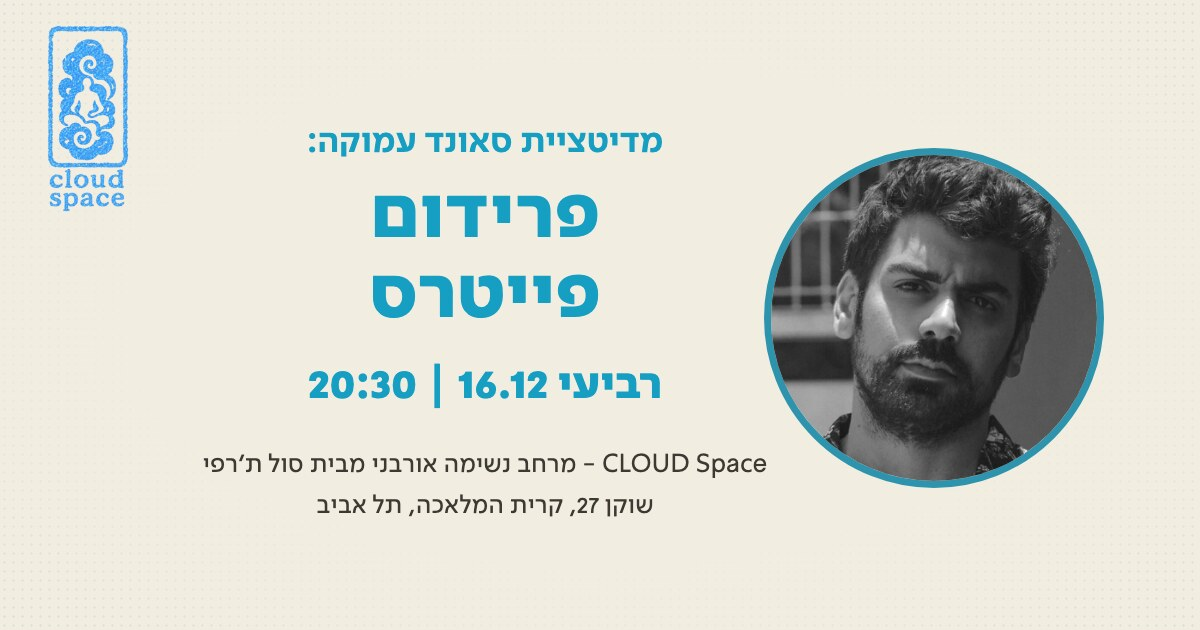
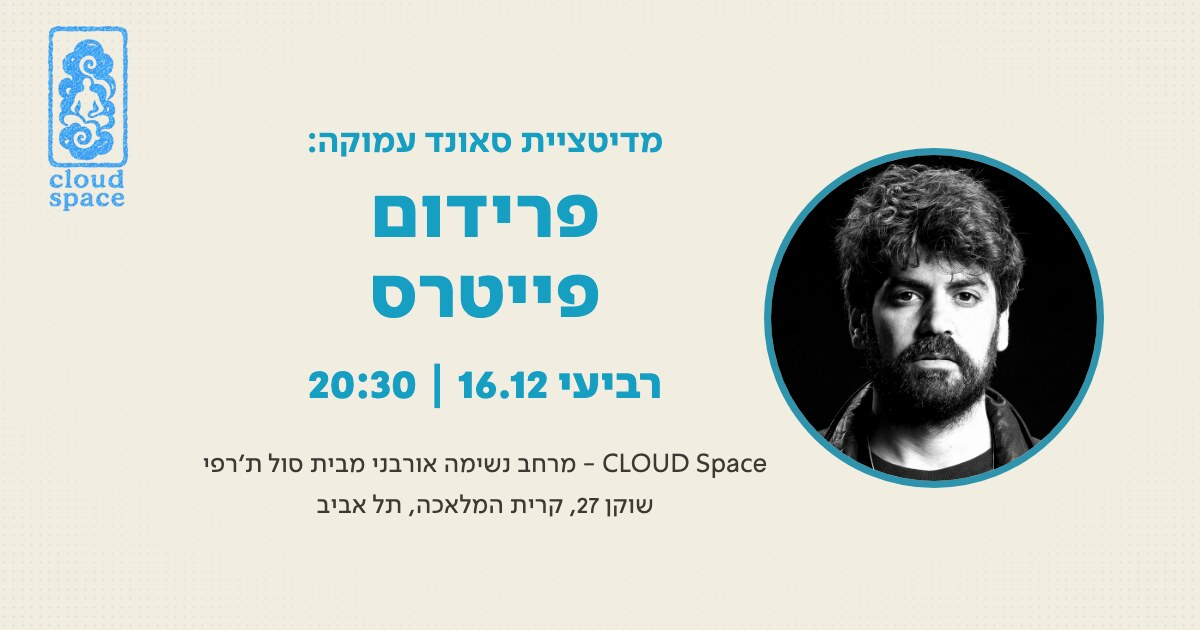
freedom-fighters-dec: new artist photo + photo credit 'צילום: Moses Pini Siluk' on the artist page and the evening share page (Yaron 23.11, same as maya-belsitzman 742a255 / eran-tzur 0888e0d)
Same-name swap, same dimensions (760x950 card jpg+webp, 1200x630 OG). No cache-busting params on these images (precedent 69d2f0e).
Artist page via build-artist-pages.py --only freedom-fighters (photo_credit field); share page surgical.

Changed region(s): [[0.6167, 0.2413, 0.925, 0.7841]]

diff --git a/artists/freedom-fighters.html b/artists/freedom-fighters.html
@@ -322,7 +322,8 @@ body[data-state="live"] .session-page{padding-bottom:7.5rem}
         <p class="session-page__kicker">Cloud Space &middot; Sol Therapy</p>
         <h1 class="session-page__title">פרידום פייטרס</h1>
         <p class="session-page__lead">אלקטרוניקה עתידנית ומרבדי סאונד</p>
-        <div class="sp-hero"><picture><source srcset="/assets/cloud/artists-bw/freedom-fighters-dec.webp" type="image/webp"><img src="/assets/cloud/artists-bw/freedom-fighters-dec.jpg" fetchpriority="high" alt="פרידום פייטרס - מדיטציית סאונד ב-CLOUD SPACE תל אביב" width="760" height="950"></picture></div>
+        <div class="sp-hero" style="margin-bottom:.6rem"><picture><source srcset="/assets/cloud/artists-bw/freedom-fighters-dec.webp" type="image/webp"><img src="/assets/cloud/artists-bw/freedom-fighters-dec.jpg" fetchpriority="high" alt="פרידום פייטרס - מדיטציית סאונד ב-CLOUD SPACE תל אביב" width="760" height="950"></picture></div>
+        <p class="sp-credit" style="margin:0 auto 2.1rem;text-align:center;font-size:.72rem;font-weight:300;letter-spacing:.03em;opacity:.55">צילום: Moses Pini Siluk</p>
 
         <section class="upcoming" data-has-upcoming="1">
             <h2 class="session-page__section-title">הערב הקרוב</h2>

diff --git a/share/freedom-fighters-dec.html b/share/freedom-fighters-dec.html
@@ -277,10 +277,11 @@ body[data-state="done"] .sp-cta.--alt{display:none}
   <h1 class="sp-title"><a href="/artists/freedom-fighters" data-artist-link="1">פרידום פייטרס</a></h1>
   <p class="sp-line">מדיטציית סאונד עמוקה</p>
 
-  <div class="sp-hero">
+  <div class="sp-hero" style="margin-bottom:.6rem">
     <span class="sp-flag --last">נפתח סבב מוקדם - 18:30</span><span class="sp-flag --sold">אזלו הכרטיסים</span>
      <picture><source srcset="../assets/cloud/artists-bw/freedom-fighters-dec.webp" type="image/webp"><img src="../assets/cloud/artists-bw/freedom-fighters-dec.jpg" fetchpriority="high" alt="פרידום פייטרס - מדיטציית סאונד ב-CLOUD SPACE תל אביב" width="760" height="950"></picture>
   </div>
+  <p class="sp-credit" style="margin:0 auto 1.6rem;text-align:center;font-size:.72rem;font-weight:300;letter-spacing:.03em;opacity:.55">צילום: Moses Pini Siluk</p>
 
   <div class="sp-specs">
     <span>רביעי</span><span class="num">16.12</span>
